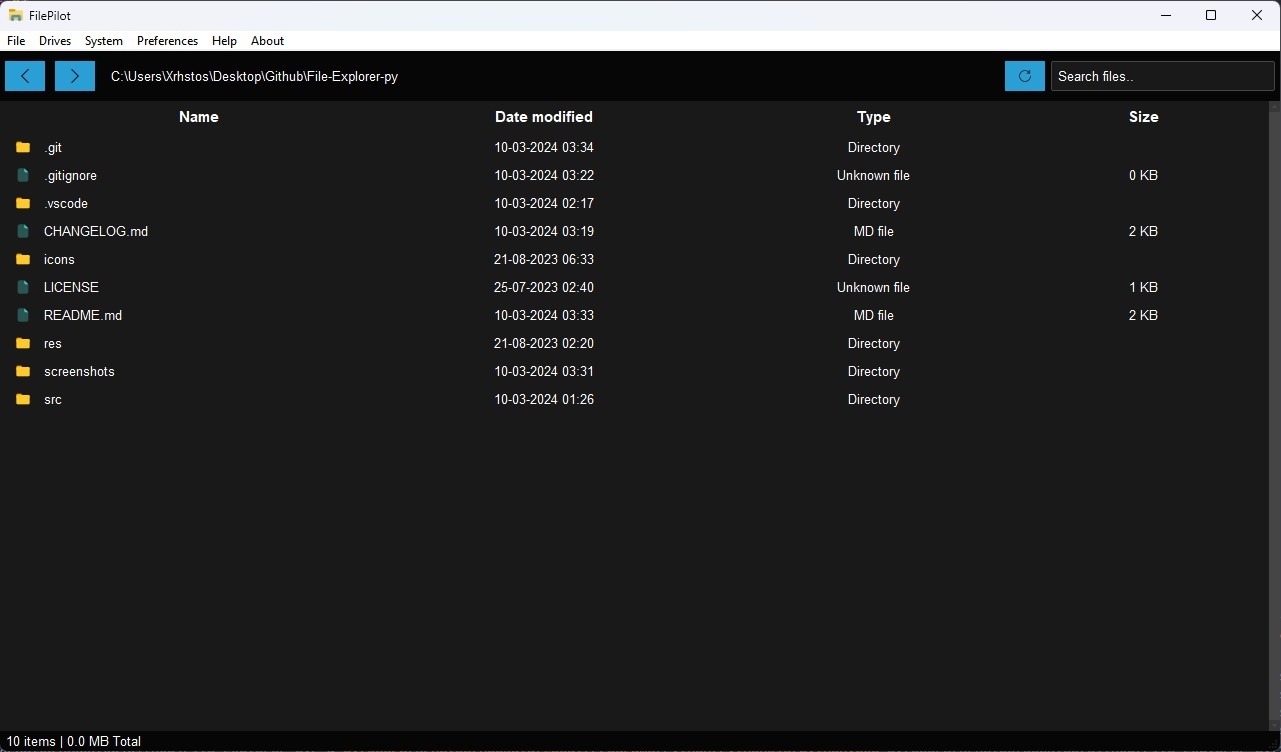
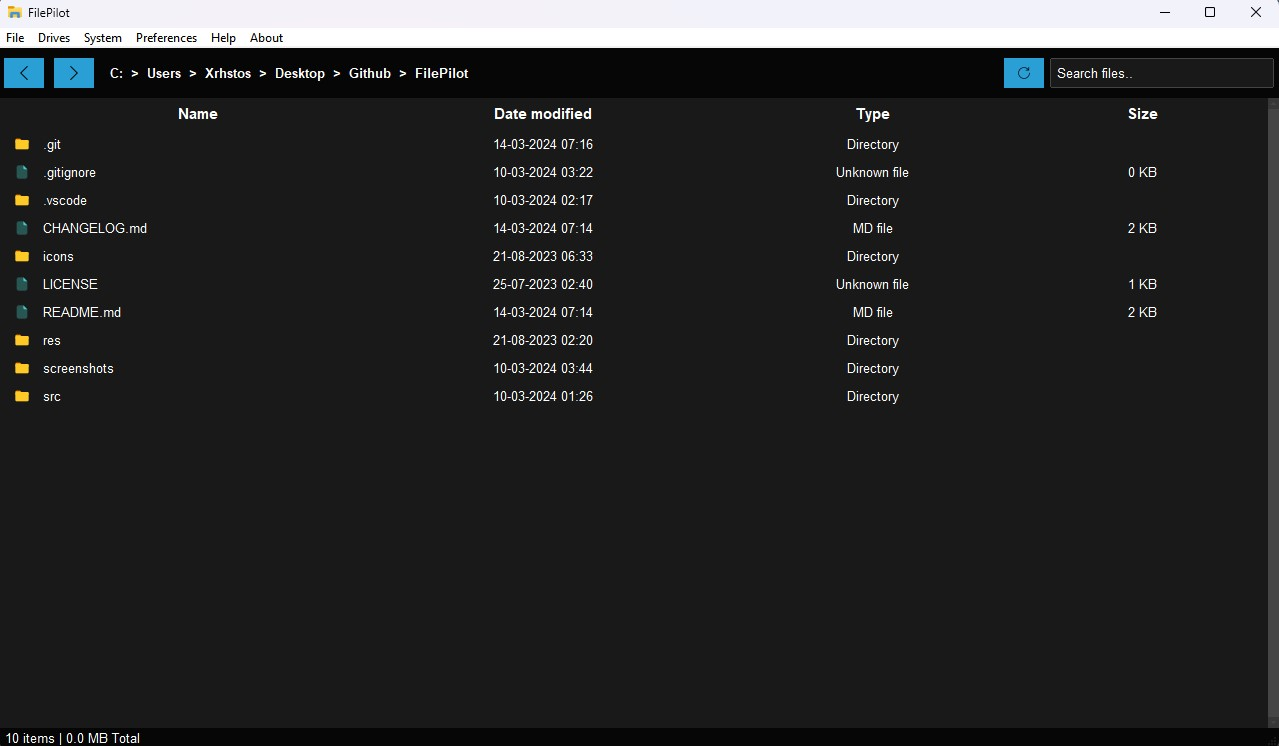
V0.5.2

diff --git a/src/ui.py b/src/ui.py
@@ -27,7 +27,7 @@ def createWindow():
 def refresh(queryNames):
     #global fileNames, folderIcon, fileIcon, items, cwdLabel, footer
     # Refresh Header
-    globals.cwdLabel.config(text=" " + os.getcwd())
+    globals.cwdLabel.config(text=" " + os.getcwd().replace('\\', "  >  "), font=("TkDefaultFont", globals.font_size, "bold"))
     # --Refresh Header
 
     # Refresh Browse
